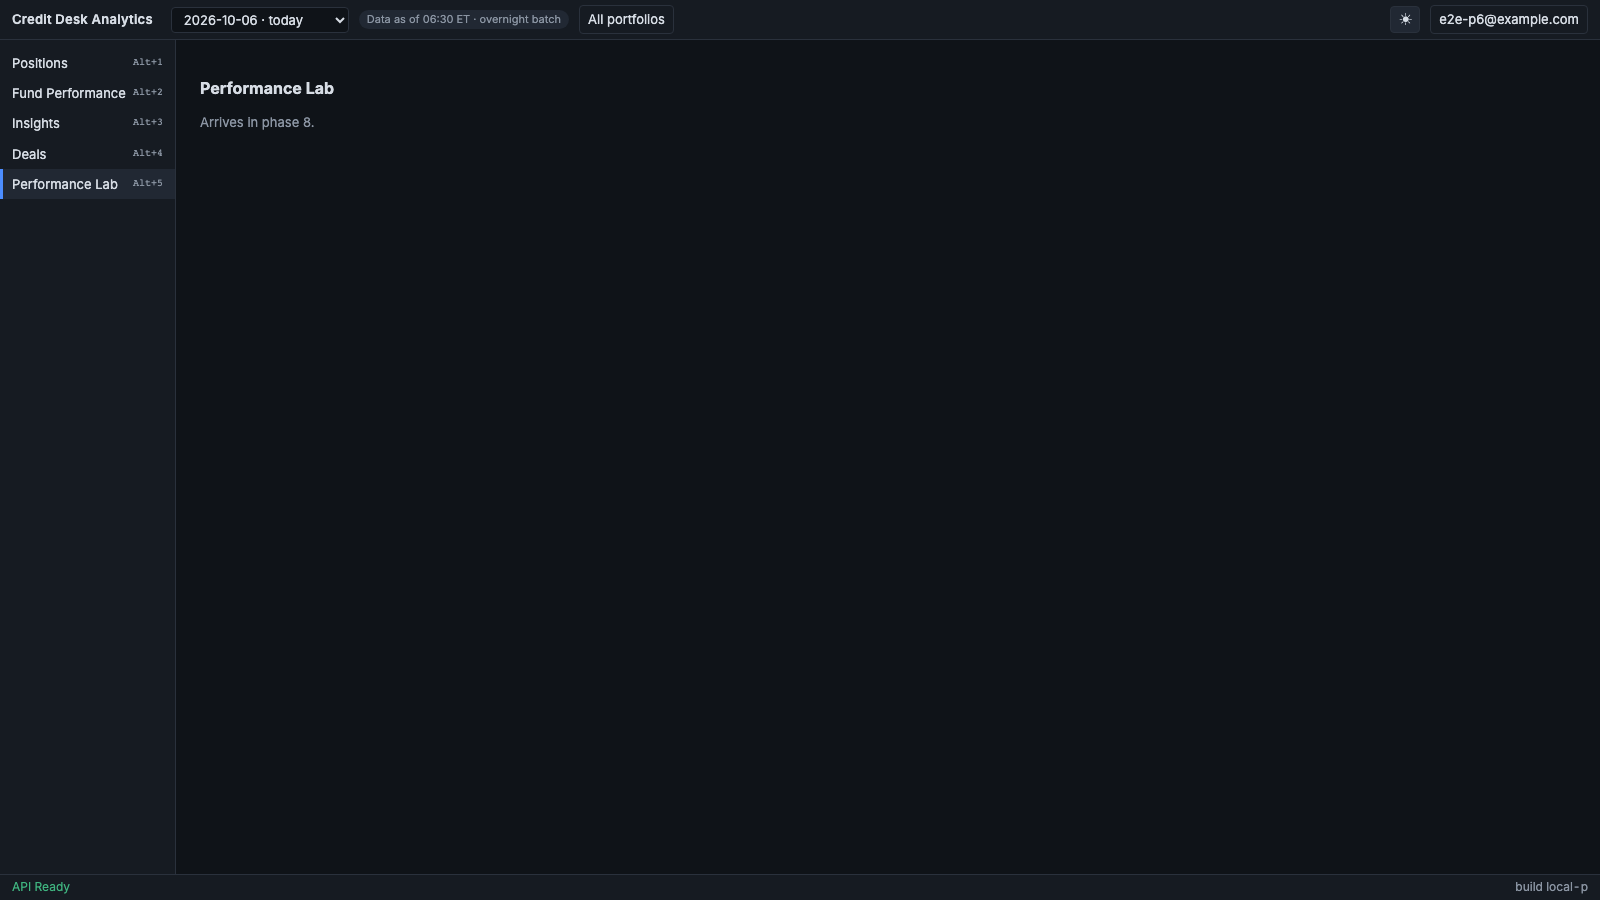
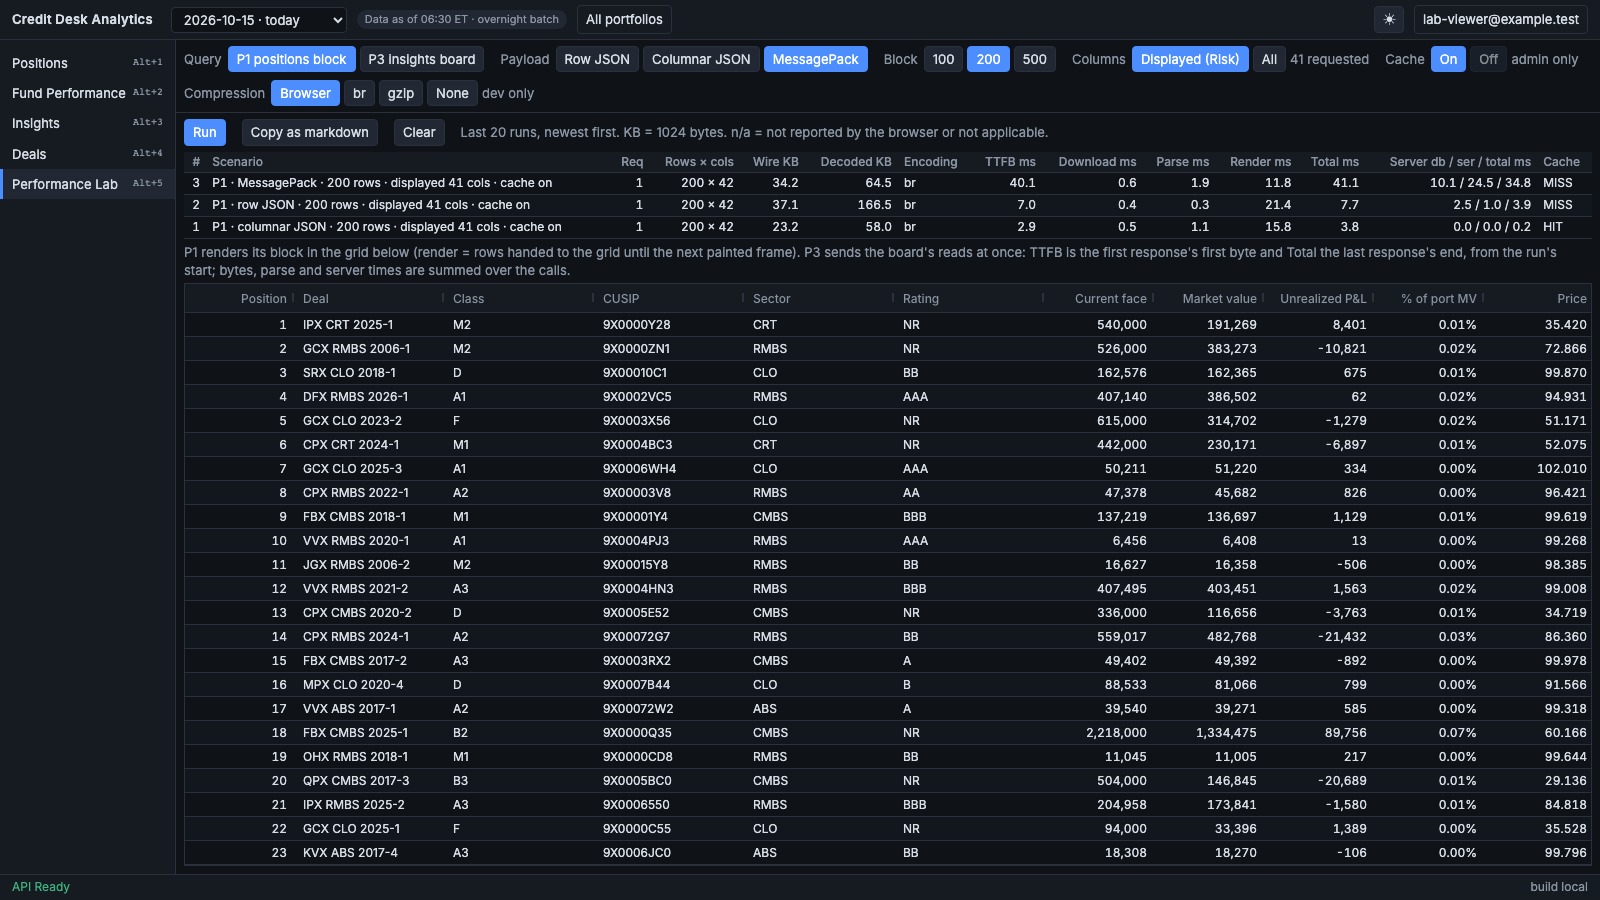
test(e2e): Performance Lab acceptance, screenshots and the ADR-0028 measurement run
lab.spec.ts checks every toggle against the real stack: formats, block
sizes, column sets, forced encodings, the viewer's disabled cache switch,
P3 5 vs 20 calls, the 20-run cap and the markdown copy. The screenshots
show three real runs. perf-lab.spec.ts (PERF=1 only) drives the Lab
through the scenario matrix and writes the medians.

diff --git a/e2e/tests/lab.spec.ts b/e2e/tests/lab.spec.ts
@@ -1,0 +1,132 @@
+import { Page } from '@playwright/test';
+import { expect, test } from './session';
+import { watchConsole } from './helpers';
+
+/** The cells of the newest run in the results table (README §6 P5), by column header. */
+async function newestRun(page: Page): Promise<Record<string, string>> {
+  const headers = await page.locator('[data-testid=results] thead th').allInnerTexts();
+  const cells = await page.locator('[data-testid=results] tbody tr').first().locator('td').allInnerTexts();
+  return Object.fromEntries(headers.map((h, i) => [h.trim(), cells[i]?.trim() ?? '']));
+}
+
+/** Presses Run and waits for the new row: run ids count up from 1. */
+async function run(page: Page, id: number): Promise<Record<string, string>> {
+  await page.getByTestId('run').click();
+  await expect(page.getByTestId(`run-${id}`)).toBeVisible();
+  await expect(page.getByTestId('run')).toBeEnabled();
+  return newestRun(page);
+}
+
+const kb = (cell: string) => Number(cell);
+
+test.describe('P5 Performance Lab (README §6 acceptance: all toggles work, numbers from real requests)', () => {
+  test('each payload format, block size and column set is a real request with its own bytes and timings', async ({ page }) => {
+    const errors = watchConsole(page);
+    const sent: { accept: string | null; body: { endRow: number; columns: string[] } }[] = [];
+    page.on('request', (r) => {
+      if (r.url().includes('/api/positions/query?lab=')) sent.push({ accept: r.headers()['accept'] ?? null, body: r.postDataJSON() });
+    });
+    await page.goto('/lab');
+    await expect(page.getByTestId('run')).toBeEnabled();
+
+    const columnar = await run(page, 1);
+    expect(columnar['Scenario']).toMatch(/^P1 · columnar JSON · 200 rows · displayed \d+ cols · cache on$/);
+    expect(columnar['Rows × cols']).toMatch(/^200 × \d+$/);
+    for (const h of ['Wire KB', 'Decoded KB', 'TTFB ms', 'Download ms', 'Parse ms', 'Render ms', 'Total ms'])
+      expect(Number.isFinite(Number(columnar[h])), `${h} = ${columnar[h]}`).toBe(true);
+    expect(kb(columnar['Wire KB'])).toBeGreaterThan(0);
+    expect(kb(columnar['Wire KB'])).toBeLessThan(kb(columnar['Decoded KB'])); // compressed on the wire
+    expect(columnar['Server db / ser / total ms']).toMatch(/^[\d.]+ \/ [\d.]+ \/ [\d.]+$/);
+    expect(columnar['Cache']).toMatch(/^(MISS|HIT)$/);
+
+    await page.getByTestId('format-rows').click();
+    const rows = await run(page, 2);
+    expect(rows['Scenario']).toContain('row JSON');
+    // ADR-0007: row objects repeat every column name, so the same block is larger, raw and compressed.
+    expect(kb(rows['Decoded KB'])).toBeGreaterThan(kb(columnar['Decoded KB']) * 1.5);
+    expect(kb(rows['Wire KB'])).toBeGreaterThan(kb(columnar['Wire KB']));
+
+    await page.getByTestId('format-msgpack').click();
+    const msgpack = await run(page, 3);
+    expect(msgpack['Scenario']).toContain('MessagePack');
+    expect(msgpack['Rows × cols']).toBe(columnar['Rows × cols']);
+    expect(kb(msgpack['Wire KB'])).toBeLessThan(kb(msgpack['Decoded KB'])); // compressed too (ADR-0028)
+
+    await page.getByTestId('format-columnar').click();
+    await page.getByTestId('block-500').click();
+    await page.getByTestId('columns-all').click();
+    const all = await run(page, 4);
+    expect(all['Rows × cols']).toMatch(/^500 × (19\d|2\d\d)$/);
+    expect(kb(all['Wire KB'])).toBeGreaterThan(kb(columnar['Wire KB']));
+
+    await page.getByTestId('block-100').click();
+    expect((await run(page, 5))['Rows × cols']).toMatch(/^100 × /);
+
+    expect(sent.map((s) => [s.accept, s.body.endRow])).toEqual([
+      ['application/json', 200], ['application/vnd.desk.rows+json', 200], ['application/x-msgpack', 200],
+      ['application/json', 500], ['application/json', 100],
+    ]);
+    expect(sent[3].body.columns.length).toBeGreaterThan(sent[0].body.columns.length);
+    expect(errors).toEqual([]);
+  });
+
+  test('the e2e stack honours the forced encoding (dev knobs on); a viewer cannot switch the cache off', async ({ page }) => {
+    await page.goto('/lab');
+    await expect(page.getByTestId('run')).toBeEnabled();
+    await expect(page.getByTestId('cache-off')).toBeDisabled();
+
+    await page.getByTestId('encoding-identity').click();
+    const none = await run(page, 1);
+    expect(none['Encoding']).toBe('none');
+    expect(none['Wire KB']).toBe(none['Decoded KB']);
+
+    await page.getByTestId('encoding-gzip').click();
+    const gzip = await run(page, 2);
+    expect(gzip['Encoding']).toBe('gzip');
+    expect(kb(gzip['Wire KB'])).toBeLessThan(kb(gzip['Decoded KB']));
+
+    await page.getByTestId('encoding-br').click();
+    const br = await run(page, 3);
+    expect(br['Encoding']).toBe('br');
+    expect(kb(br['Wire KB'])).toBeLessThanOrEqual(kb(gzip['Wire KB']));
+  });
+
+  test('P3: naive sends 20 calls, per-source 5, each measured', async ({ page }) => {
+    const calls: string[] = [];
+    page.on('request', (r) => { if (r.url().includes('/api/insights/') && r.url().includes('lab=')) calls.push(r.url()); });
+    await page.goto('/lab');
+    await page.getByTestId('target-p3').click();
+    await expect(page.getByTestId('run')).toBeEnabled();
+
+    const five = await run(page, 1);
+    expect(five['Req']).toBe('5');
+    expect(calls).toHaveLength(5);
+    expect(kb(five['Wire KB'])).toBeGreaterThan(0);
+
+    await page.getByTestId('p3-naive').click();
+    const twenty = await run(page, 2);
+    expect(twenty['Scenario']).toBe('P3 · naive 20 calls · cache on');
+    expect(twenty['Req']).toBe('20');
+    expect(calls).toHaveLength(25);
+    expect(calls.slice(5).every((u) => new URL(u).searchParams.has('grid'))).toBe(true);
+    expect(twenty['Cache']).toMatch(/HIT|MISS/);
+  });
+
+  test('keeps the last 20 runs and copies them as a markdown table', async ({ page, context }) => {
+    await context.grantPermissions(['clipboard-read', 'clipboard-write']);
+    await page.goto('/lab');
+    await expect(page.getByTestId('run')).toBeEnabled();
+    for (let id = 1; id <= 21; id++) await run(page, id);
+    await expect(page.locator('[data-testid=results] tbody tr')).toHaveCount(20);
+    await expect(page.getByTestId('run-1')).toHaveCount(0);
+
+    await page.getByTestId('copy').click();
+    await expect(page.getByTestId('copied')).toHaveText('Copied 20 runs as markdown.');
+    const md = await page.evaluate(() => navigator.clipboard.readText());
+    const lines = md.trimEnd().split('\n');
+    expect(lines).toHaveLength(22);
+    expect(lines[0]).toMatch(/^\| # \| Scenario \| Req \|/);
+    expect(lines[2]).toMatch(/^\| 2 \| P1 · columnar JSON/);
+    expect(lines[21]).toMatch(/^\| 21 \|/);
+  });
+});

diff --git a/e2e/tests/perf-lab.spec.ts b/e2e/tests/perf-lab.spec.ts
@@ -1,0 +1,92 @@
+import { Page } from '@playwright/test';
+import { mkdirSync, writeFileSync } from 'node:fs';
+import { expect, test } from './session';
+
+/**
+ * ADR-0028 numbers, measured by the Performance Lab itself (README §6 P5). Opt-in like perf.spec.ts (PERF=1;
+ * playwright.config.ts only collects it then). Sign in as an admin so the cache can be switched off, against a
+ * local stack whose dev knobs are on (the e2e compose override), never Render, Neon or production:
+ *   PERF=1 BASE_URL=http://localhost:8080 DESK_EMAIL=<local admin> DESK_PASSWORD=… npx playwright test perf-lab
+ * Each scenario runs once to warm up, then `runs` times; the table is the median of each column. The Lab's own
+ * "copy as markdown" of the last 20 runs is saved next to it.
+ */
+test.skip(!process.env.PERF, 'measurement run: set PERF=1');
+
+const runs = 5;
+
+type Toggles = Partial<Record<'target' | 'format' | 'block' | 'columns' | 'cache' | 'encoding' | 'p3', string>>;
+
+const scenarios: Toggles[] = [
+  ...(['rows', 'columnar', 'msgpack'] as const).flatMap((format) =>
+    (['displayed', 'all'] as const).map((columns): Toggles => ({ target: 'p1', format, columns, block: '200', cache: 'off', encoding: 'default' }))),
+  { target: 'p1', format: 'columnar', columns: 'displayed', block: '100', cache: 'off', encoding: 'default' },
+  { target: 'p1', format: 'columnar', columns: 'displayed', block: '500', cache: 'off', encoding: 'default' },
+  { target: 'p1', format: 'columnar', columns: 'displayed', block: '200', cache: 'off', encoding: 'gzip' },
+  { target: 'p1', format: 'columnar', columns: 'displayed', block: '200', cache: 'off', encoding: 'identity' },
+  { target: 'p1', format: 'columnar', columns: 'displayed', block: '200', cache: 'on', encoding: 'default' },
+  { target: 'p3', p3: 'per-source', cache: 'off', encoding: 'default' },
+  { target: 'p3', p3: 'naive', cache: 'off', encoding: 'default' },
+  { target: 'p3', p3: 'per-source', cache: 'on', encoding: 'default' },
+  { target: 'p3', p3: 'naive', cache: 'on', encoding: 'default' },
+];
+
+async function apply(page: Page, t: Toggles): Promise<void> {
+  for (const [key, value] of Object.entries(t)) {
+    const id = key === 'target' ? `target-${value}` : key === 'p3' ? `p3-${value}` : `${key}-${value}`;
+    await page.getByTestId(id).click();
+  }
+}
+
+let next = 1;
+
+async function runOnce(page: Page): Promise<string[]> {
+  const id = next++;
+  await page.getByTestId('run').click();
+  await expect(page.getByTestId(`run-${id}`)).toBeVisible({ timeout: 30_000 });
+  await expect(page.getByTestId('run')).toBeEnabled();
+  return page.getByTestId(`run-${id}`).locator('td').allInnerTexts();
+}
+
+const median = (xs: number[]) => [...xs].sort((a, b) => a - b)[Math.floor(xs.length / 2)];
+
+/** The median of each numeric cell; text cells (and n/a) are taken from the last run. */
+function medianRow(rows: string[][]): string[] {
+  return rows[0].map((_, c) => {
+    const values = rows.map((r) => r[c]);
+    if (c === 0) return '';
+    if (c === 2) return values.at(-1)!; // the request count is fixed per scenario
+    if (c === 12 && values.every((v) => /^[\d.]+ \/ [\d.]+ \/ [\d.]+$/.test(v))) {
+      const parts = values.map((v) => v.split(' / ').map(Number));
+      return [0, 1, 2].map((i) => median(parts.map((p) => p[i])).toFixed(1)).join(' / ');
+    }
+    if (values.every((v) => v !== '' && Number.isFinite(Number(v)))) return median(values.map(Number)).toFixed(1);
+    return values.at(-1)!;
+  });
+}
+
+test('Performance Lab scenario matrix (ADR-0028)', async ({ page, context }) => {
+  test.setTimeout(10 * 60_000);
+  await context.grantPermissions(['clipboard-read', 'clipboard-write']);
+  await page.goto('/lab');
+  await expect(page.getByTestId('run')).toBeEnabled();
+  await expect(page.getByTestId('cache-off'), 'sign in as a local admin to measure with the cache off').toBeEnabled();
+  const headers = (await page.locator('[data-testid=results] thead th').allInnerTexts()).map((h) => h.trim());
+
+  const lines = [`| ${headers.slice(1).join(' | ')} |`, `|${headers.slice(1).map(() => '---').join('|')}|`];
+  for (const s of scenarios) {
+    await apply(page, s);
+    await runOnce(page); // warm-up: connection, JIT, the decoder's first load
+    const rows: string[][] = [];
+    for (let i = 0; i < runs; i++) rows.push(await runOnce(page));
+    lines.push(`| ${medianRow(rows).slice(1).join(' | ')} |`);
+  }
+
+  await page.getByTestId('copy').click();
+  await expect(page.getByTestId('copied')).toBeVisible();
+  const last20 = await page.evaluate(() => navigator.clipboard.readText());
+  mkdirSync('results', { recursive: true });
+  const table = `Median of ${runs} runs per scenario (after one warm-up), ${new Date().toISOString()}, ${process.env.BASE_URL}\n\n${lines.join('\n')}\n`;
+  writeFileSync('results/perf-lab.md', table);
+  writeFileSync('results/perf-lab-last20.md', last20);
+  console.log(table);
+});

diff --git a/e2e/tests/screenshots.spec.ts b/e2e/tests/screenshots.spec.ts
@@ -31,6 +31,14 @@ for (const theme of ['dark', 'light'] as const) {
         await page.locator('[data-testid=deal-grid] [role=row][row-index="0"] [col-id=name]').click();
         await expect(page.getByTestId('capital-stack')).toBeVisible();
       }
+      if (p.name === 'performance-lab') {
+        // A few real runs in the results table, the last block in the grid.
+        for (const [toggle, id] of [[null, 1], ['format-rows', 2], ['format-msgpack', 3]] as const) {
+          if (toggle) await page.getByTestId(toggle).click();
+          await page.getByTestId('run').click();
+          await expect(page.getByTestId(`run-${id}`)).toBeVisible();
+        }
+      }
       await page.waitForTimeout(400);
       await page.screenshot({ path: `${dir}/${p.name}-${theme}.png` });
     }

diff --git a/e2e/playwright.config.ts b/e2e/playwright.config.ts
@@ -6,9 +6,9 @@ import { defineConfig, devices } from '@playwright/test';
  */
 export default defineConfig({
   testDir: './tests',
-  // ADR-0009 measurement run is opt-in: without PERF it is not collected at all, so the default run reports
-  // 0 skipped (#210). perf.spec.ts keeps its own test.skip guard as a backstop.
-  testIgnore: process.env.PERF ? [] : ['**/perf.spec.ts'],
+  // The ADR-0009 and ADR-0028 measurement runs are opt-in: without PERF they are not collected at all, so the
+  // default run reports 0 skipped (#210). Each keeps its own test.skip guard as a backstop.
+  testIgnore: process.env.PERF ? [] : ['**/perf.spec.ts', '**/perf-lab.spec.ts'],
   timeout: 60_000,
   expect: { timeout: 15_000 },
   fullyParallel: false,
